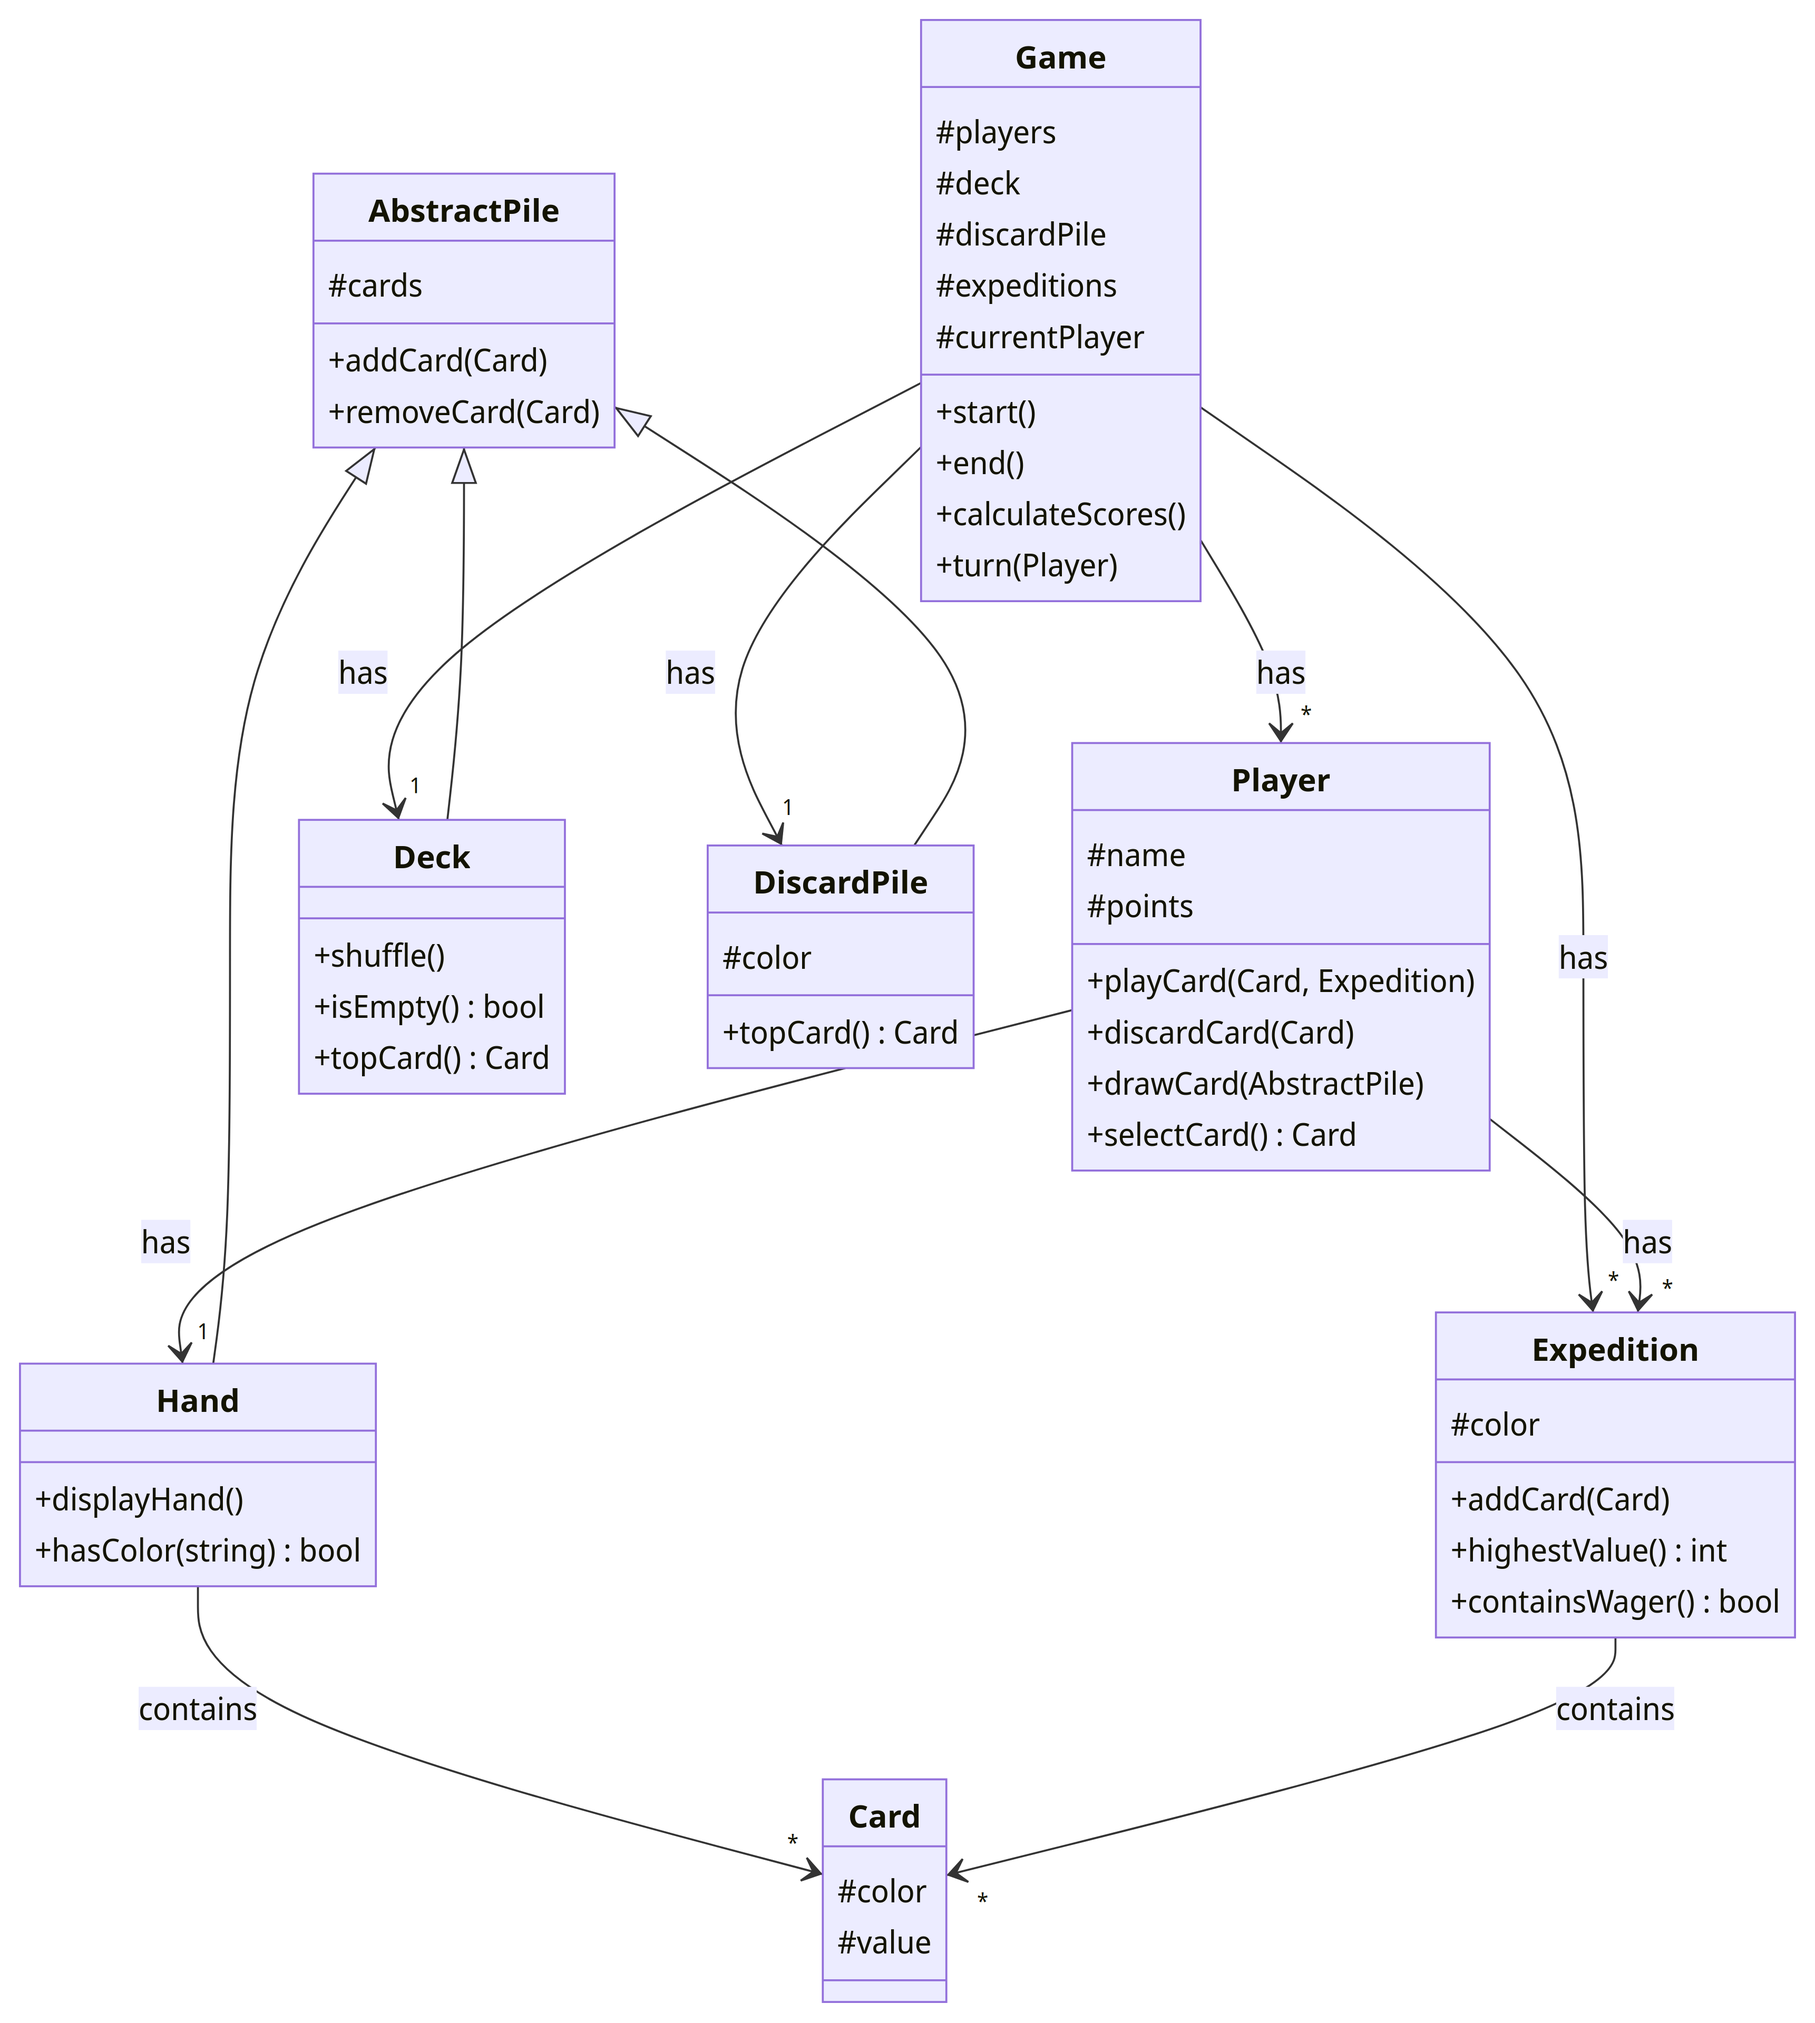
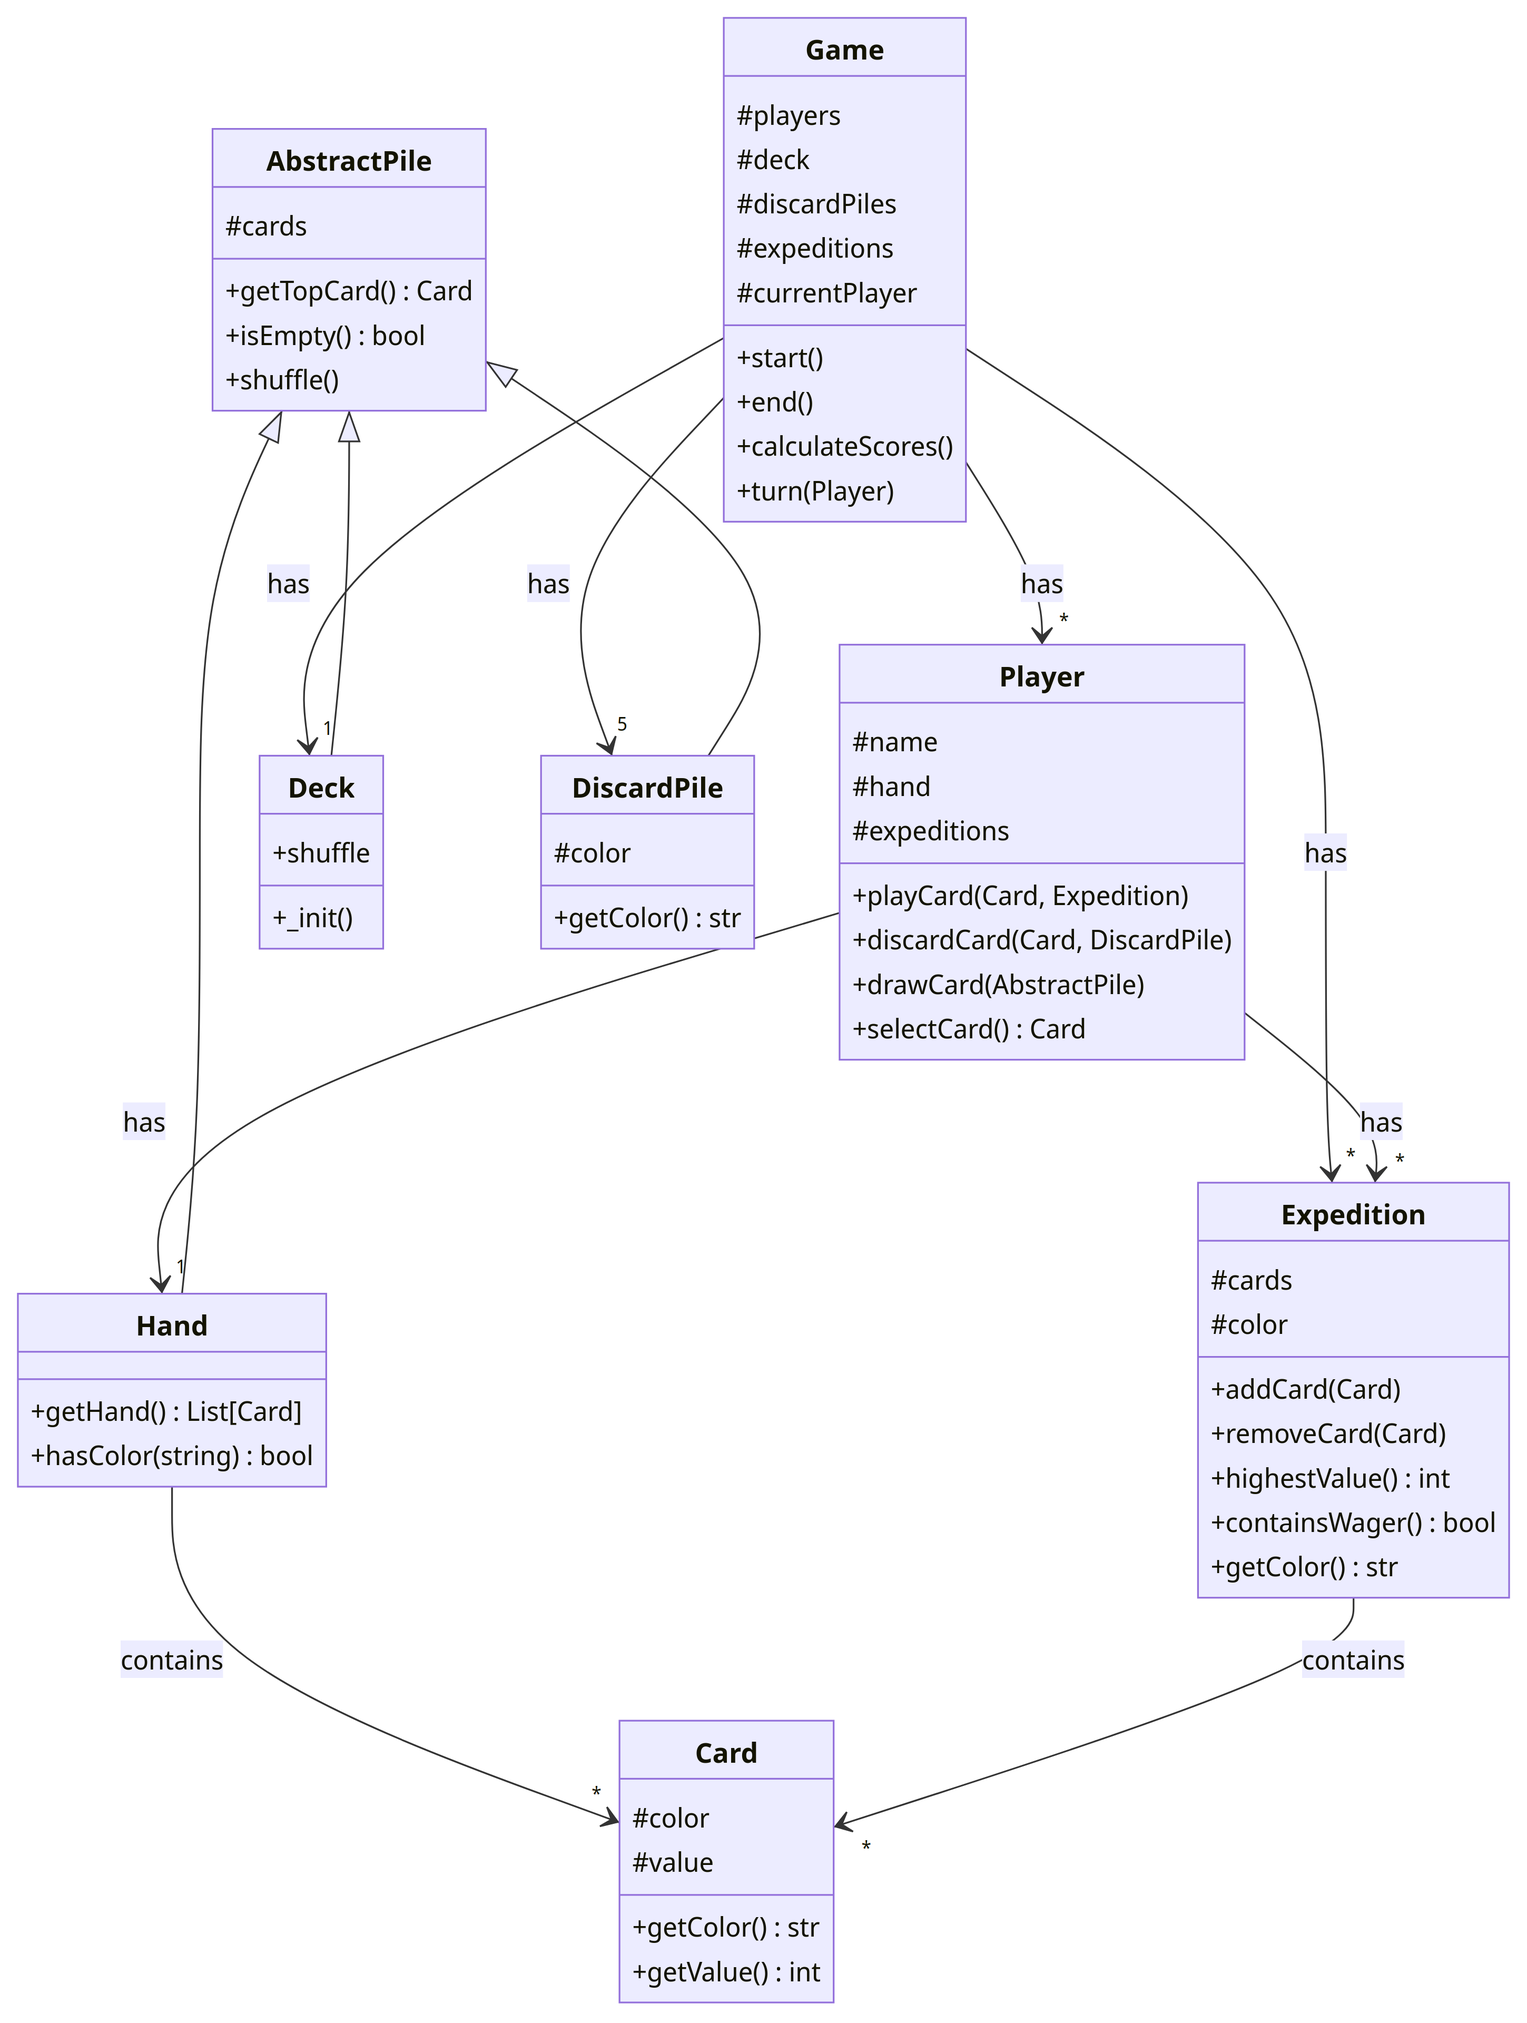
update AbstractPile logic

diff --git a/docs/class_diagram/class_diagram.md b/docs/class_diagram/class_diagram.md
@@ -2,7 +2,7 @@
 classDiagram
     Game --> "*" Player : has
     Game --> "1" Deck : has
-    Game --> "1" DiscardPile : has
+    Game --> "5" DiscardPile : has
     Game --> "*" Expedition : has
     Player --> "1" Hand : has
     Hand --> "*" Card : contains
@@ -14,7 +14,7 @@ classDiagram
     class Game{
       #players
       #deck
-      #discardPile
+      #discardPiles
       #expeditions
       #currentPlayer
       +start()
@@ -24,39 +24,44 @@ classDiagram
     }
     class Player{
       #name
-      #points
+      #hand
+      #expeditions
       +playCard(Card, Expedition)
-      +discardCard(Card)
+      +discardCard(Card, DiscardPile)
       +drawCard(AbstractPile)
       +selectCard() : Card
     }
     class AbstractPile{
       #cards
-      +addCard(Card)
-      +removeCard(Card)
+      +getTopCard() : Card
+      +isEmpty() : bool
+      +shuffle()
     }
     class Card{
       #color
       #value
+      +getColor() : str
+      +getValue() : int
     }
     class Deck{
-      +shuffle()
-      +isEmpty() : bool
-      +topCard() : Card
+      +_init()
+      +shuffle
     }
     class DiscardPile{
       #color
-      +topCard() : Card
+      +getColor() : str
     }
     class Hand{
-      +displayHand()
+      +getHand() : List[Card]
       +hasColor(string) : bool
     }
     class Expedition{
+      #cards
       #color
       +addCard(Card)
+      +removeCard(Card)
       +highestValue() : int
       +containsWager() : bool
+      +getColor() : str
     }
-
 ```
